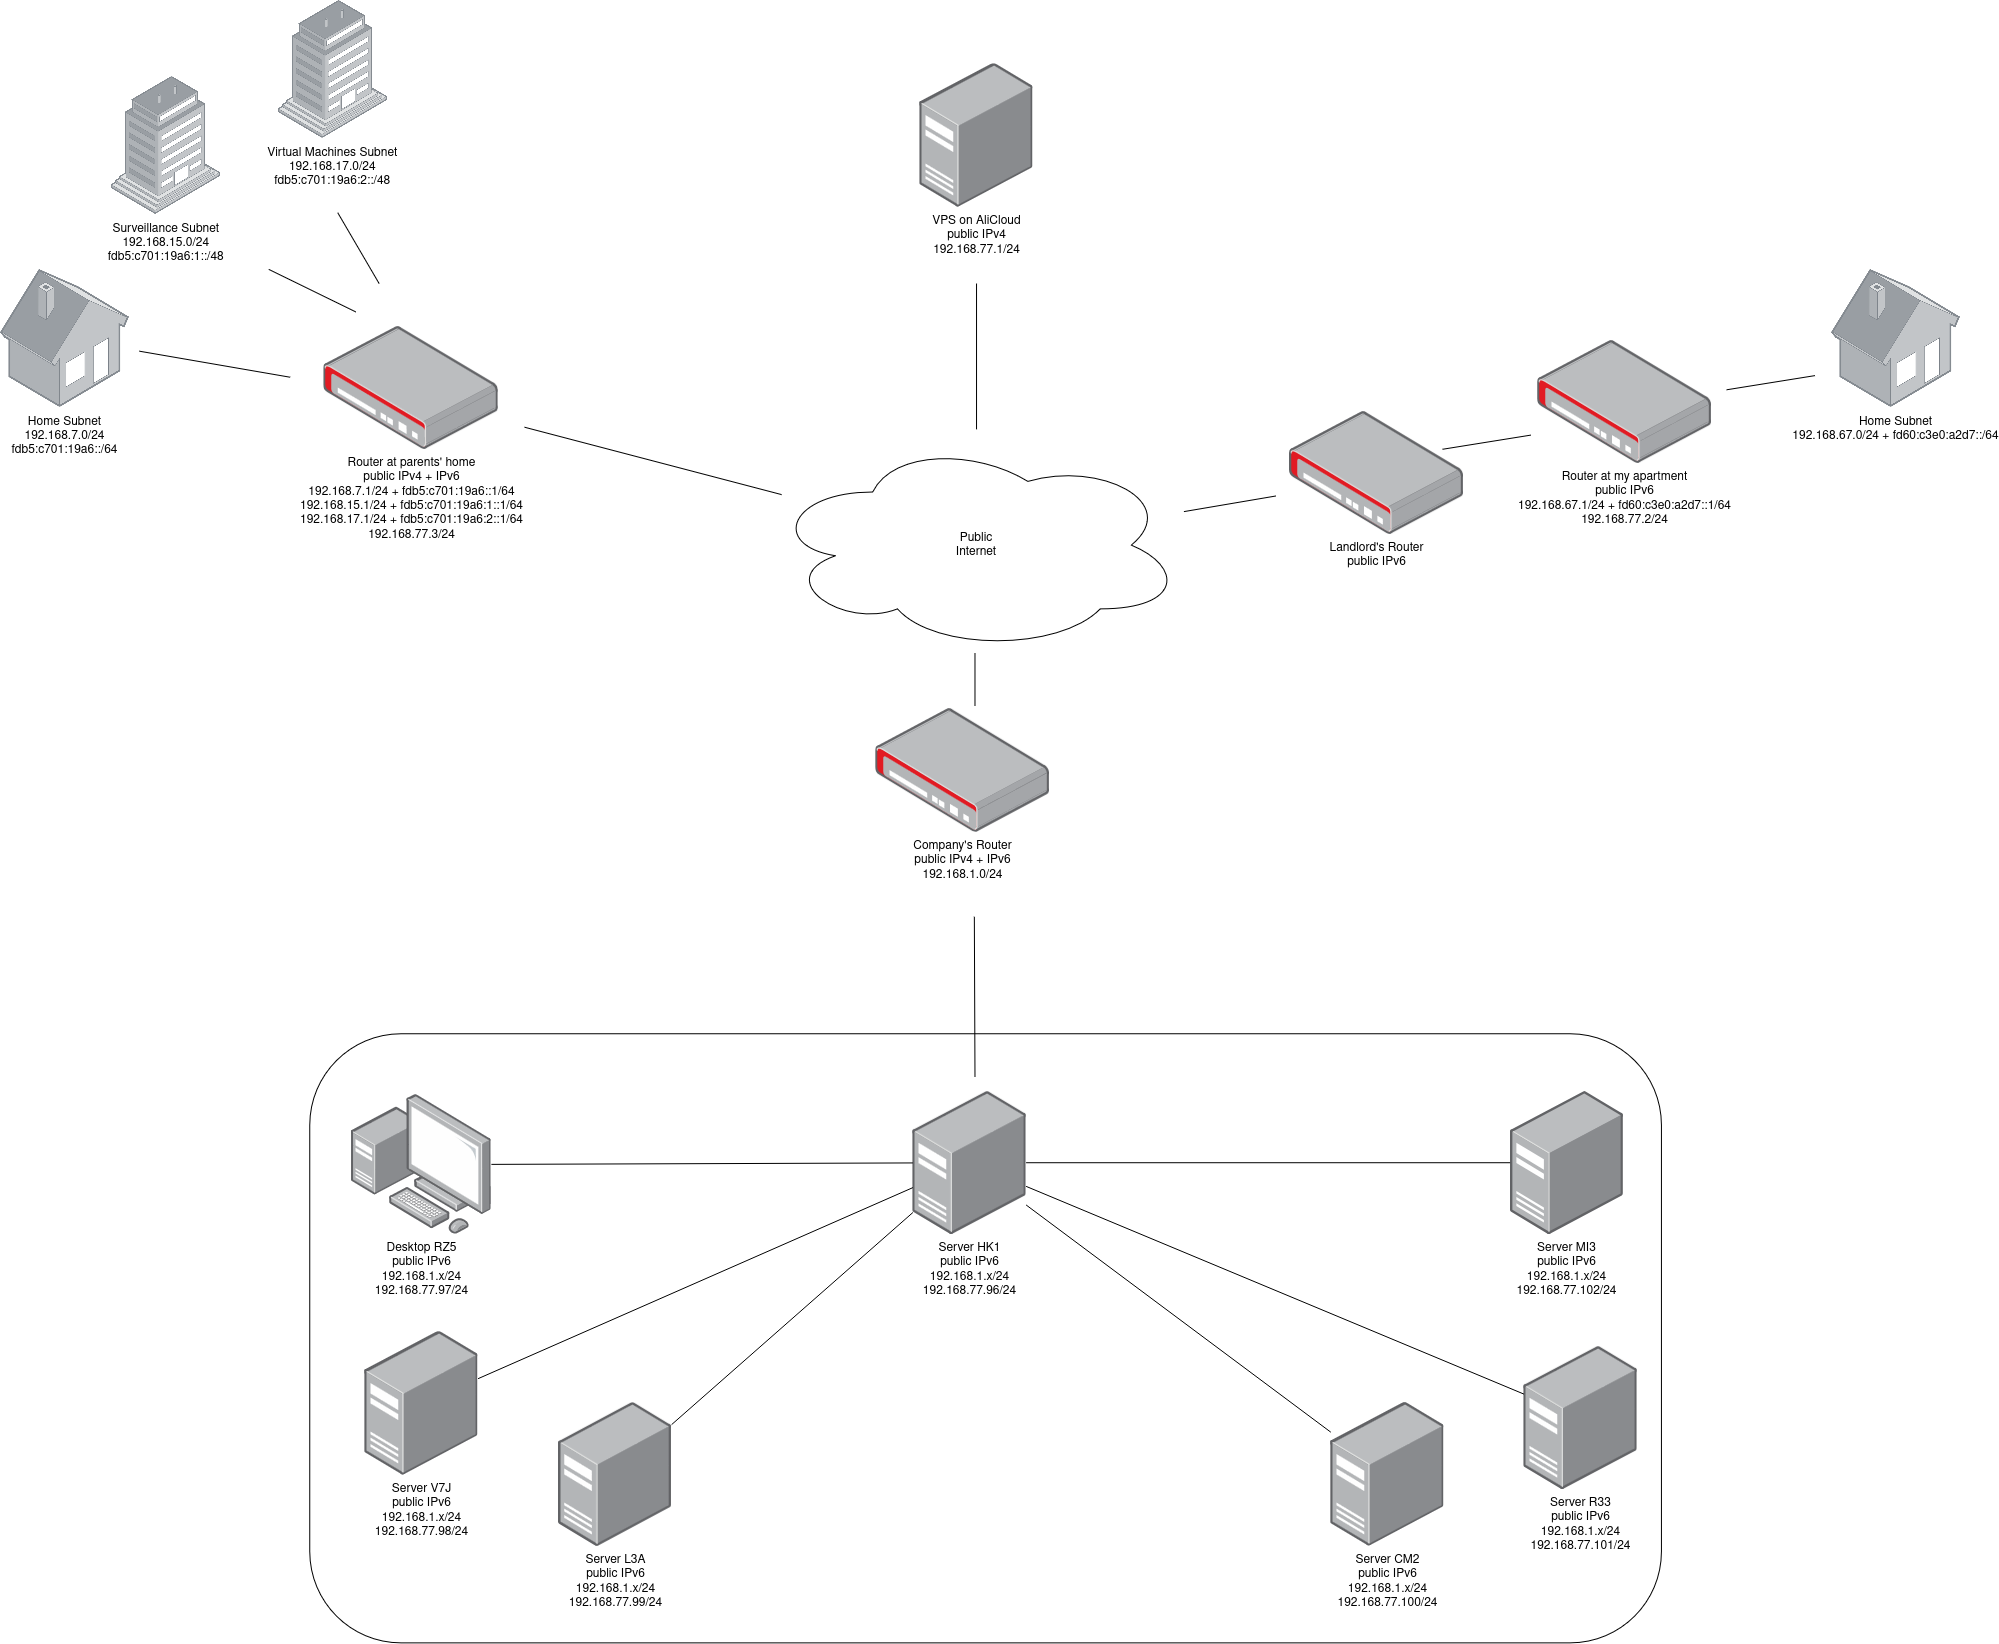
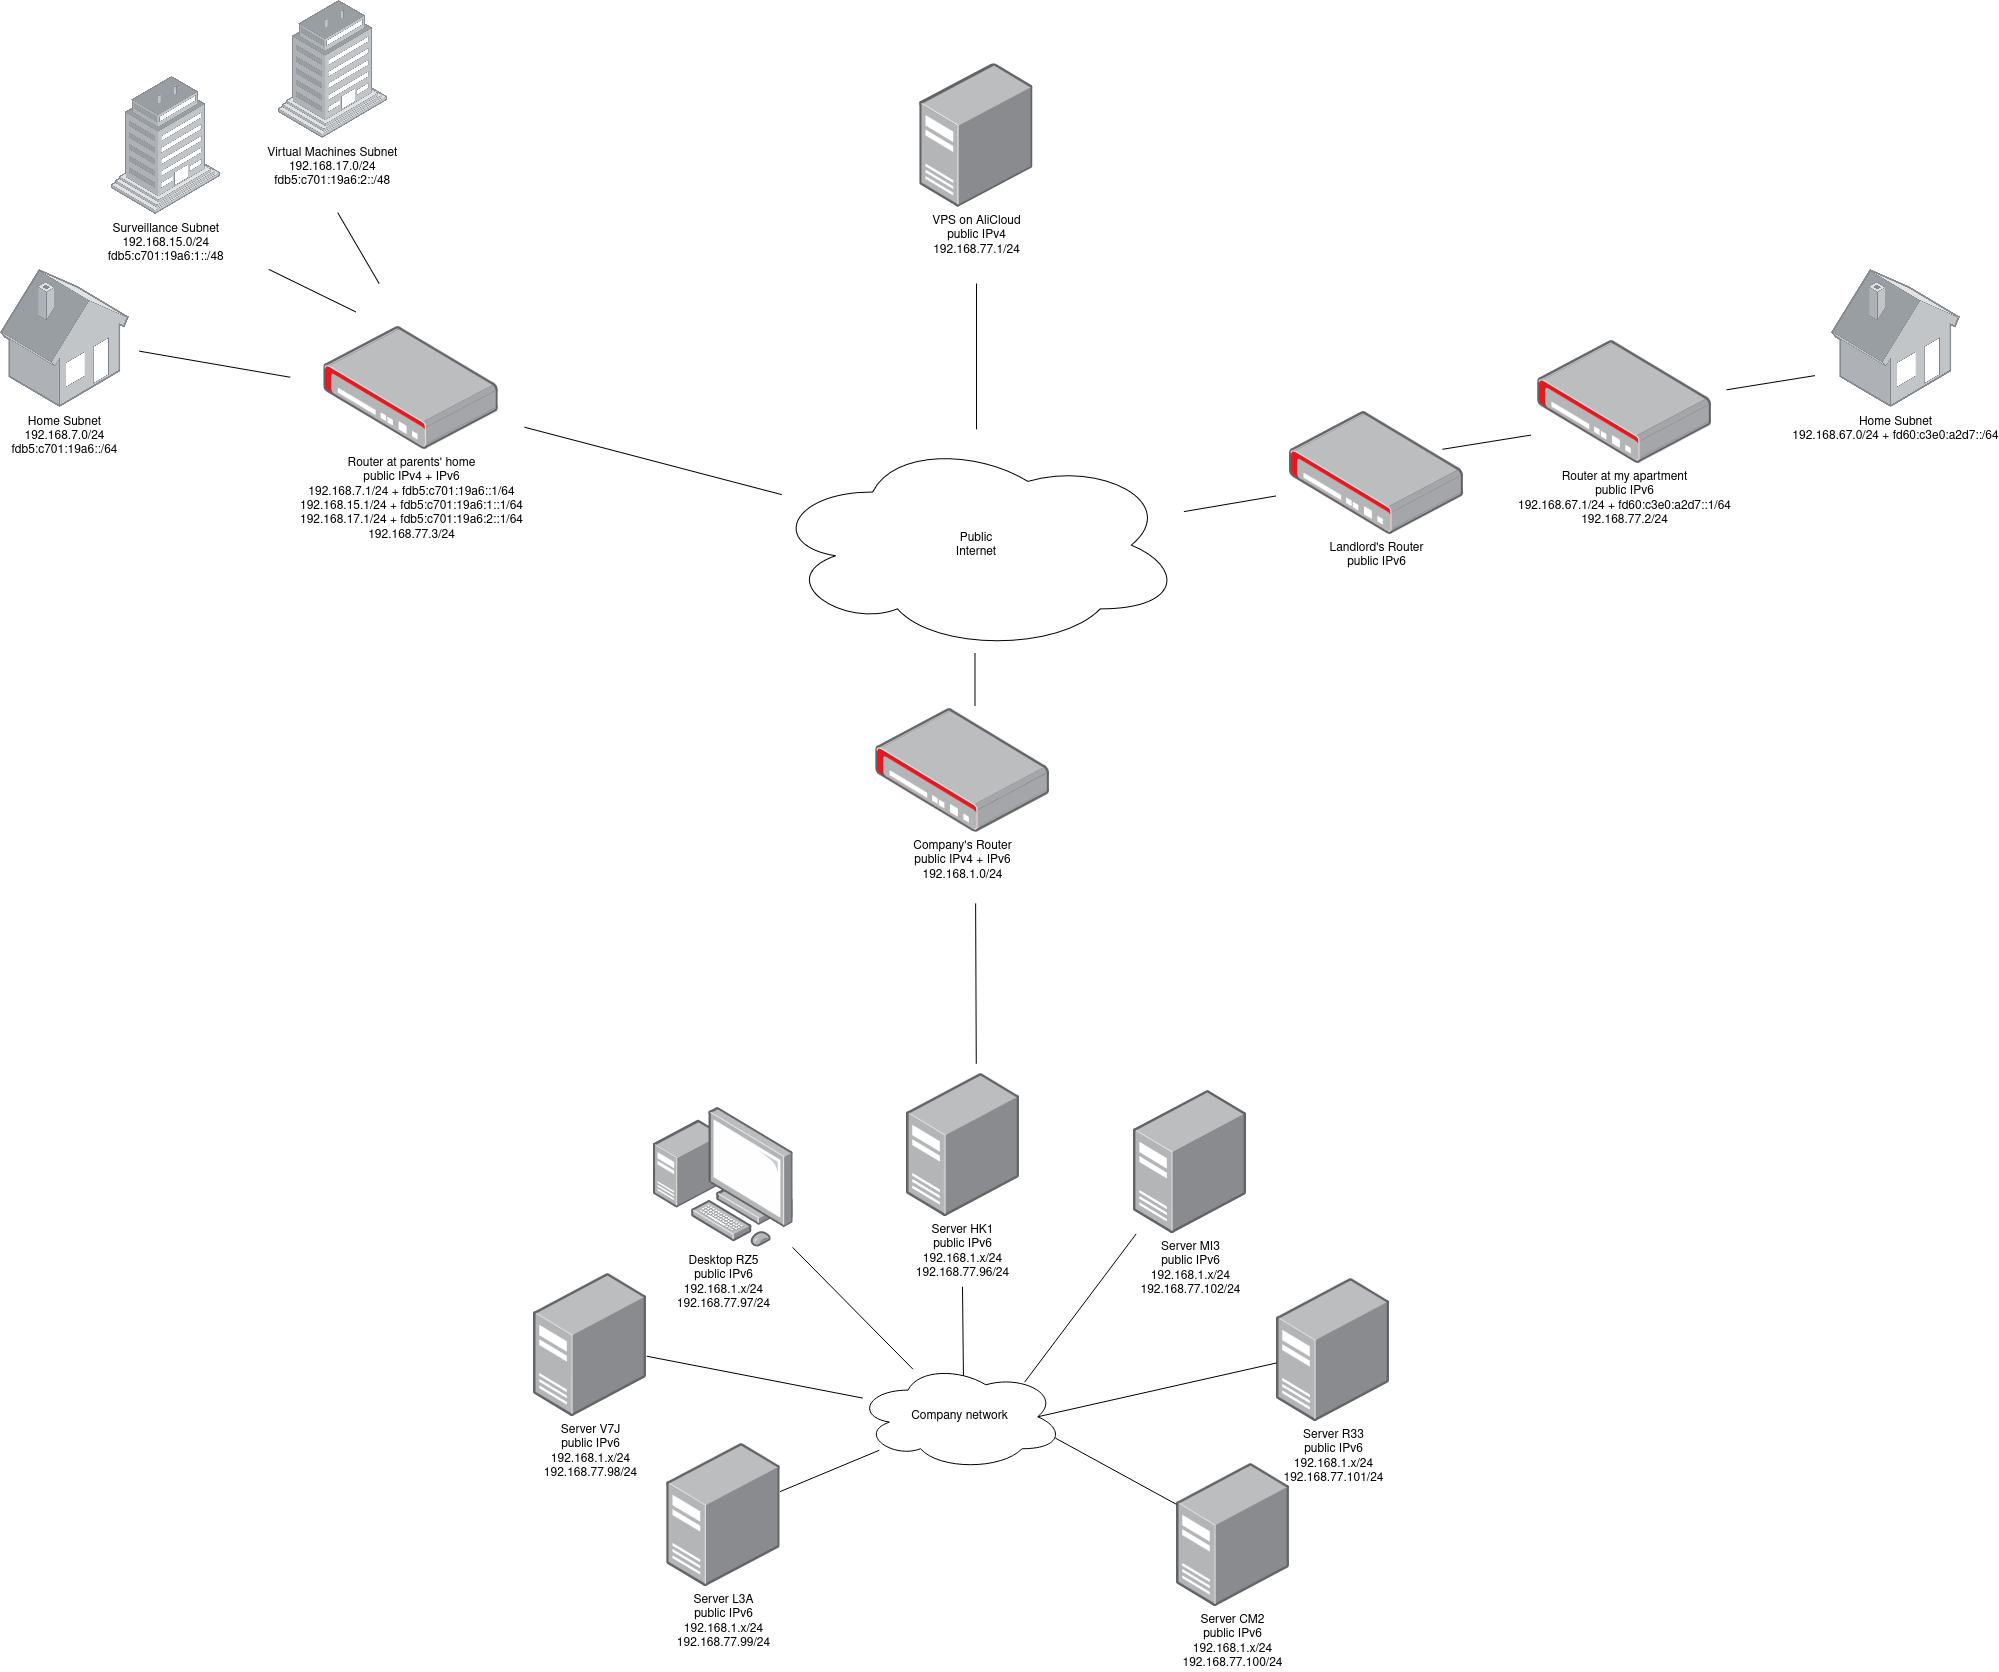
2024-06-14-complex-wireguard-setup-made-easy: fix typo and update topology

diff --git a/docs/_posts/networking/2024-06-14-complex-wireguard-setup-made-easy.md b/docs/_posts/networking/2024-06-14-complex-wireguard-setup-made-easy.md
@@ -83,7 +83,7 @@ The topology is basically like the following pic, with unrelated switches and ot
 
 ## With wireguard-deployer
 
-For my sanity I decided to write a config and key generator that yields easily deployable config tarballs, the project in mostly written during the Dragon Boat Festival, and it's open sourced [on GitHub](https://github.com/7Ji/wireguard-deployer)
+For my sanity I decided to write a config and key generator that yields easily deployable config tarballs, the project is mostly written during the Dragon Boat Festival, and it's open sourced [on GitHub](https://github.com/7Ji/wireguard-deployer)
 
 I can desribe my setup in a single .yaml file like the following:
 ```yaml
